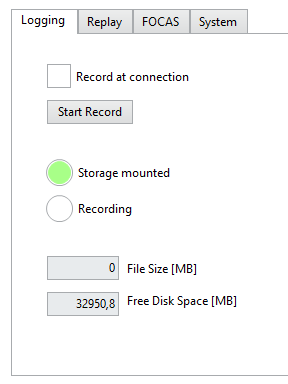
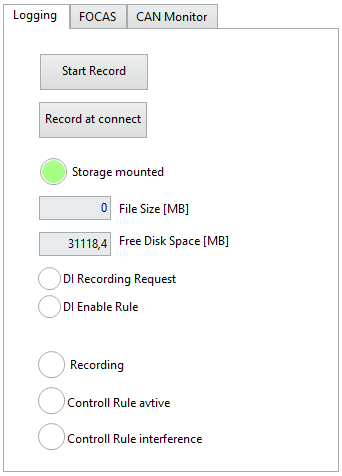
Updated till "connection modes"

diff --git a/C-RIO Dashboard en.md b/C-RIO Dashboard en.md
@@ -2,6 +2,11 @@
 
 User manual for the C-RIO Dashboard
 
+## Version
+This version of the documentation was written for the Dashboard version v4.0.1.4.
+For older documentation look at the following link:
+https://github.com/MyTooliT/Dashboard/blob/older_than_4_0_1_4/C-RIO%20Dashboard%20en.md
+
 ## ICOtronic System components 		  			
 
 The graphic below provides an overview about the ICOtronic system components. It consists of the following main parts:
@@ -21,63 +26,61 @@ http://www.ni.com/download/labview-run-time-engine-2018/7383/en/
 
 CAUTION: it has to be the 2020 SP1 (32-bit) version !!!
 
-Not all browsers can use this plugin, Microsoft Internet Explorer (NOT MICROSOFT EDGE) was tested and worked well.
+Not all browsers can use this plugin. Microsoft Edge works if you run the Dashboard tab in the "Internet Explorer Mode". 
+Alternatively you can also use the ICOtronicRemotePanel. When using the panel you also need to have the "LabView Runtime" installed on your device.
 
-Before connecting the Laptop via the Ethernet Cable to the SPU, the  correct network settings have to be configured. Therefore, set the  network configuration of the interface that is going to be used with the SPU as illustrated below.
+Before connecting the Laptop via the Ethernet Cable to the SPU, the correct network settings have to be configured. Therefore, set the network configuration of the interface that is going to be used with the SPU as illustrated below.
 
 ![ip](assets/ip.png)
  If required, please reboot your Laptop after changing the network settings.
 
 ## Real-Time-Dashboard 			  			
 
-Open your Microsoft Internet explorer and go to:
+If you use Microsoft Edge open the explorer and go to:
+http://192.168.1.115:8000/ICOtronicSPU.html
+If the Dashboard doesn't open check if you are opening the side in the "Internet Explorer Mode".
 
-http://192.168.1.113:8000/ICOtronicSPU.html
+If you use the "ICOtronicRemotePanel" then open the program. Now it will open the following window in which you have to input the IP-Address of the Dashboard. The input should be:
+**192.168.1.115**
+
+![Remote_IP](assets/Remote_IP.png)
 
 This should open the real-time-Dashboard on your PC.
 
-The Dashboard contains at least two tabs: **Stability** and **System**. Newer versions can have additional tabs. The header of the Dashboard, which is active on all the mentioned tabs, has a Connection identifier and the ICOtronic-logo.
+The Dashboard contains four tabs: **Stability**, **Breakout detection**, **Raw data view** and **System**. The header of the Dashboard, which is active on all the mentioned tabs, has a Connection identifier, a field where you can see the name and MAC-Address of the connected holder and the ICOtronic-logo.
 
 If the system is connected to a sensory tool holder, the identifier turns blue. After disconnection, it turns white again.
-
-![connected_w](assets/connected_w.png)   <------->   ![connected_b](assets/connected_b.png)
+![connected_w](assets/disconnected.png)   <------->   ![connected_b](assets/connected.png)
+If no sensory tool holder is connected the fields for name and MAC-Address will be empty. When connected to a sensory tool holder the name and MAC-Address will show until disconnection.
+![connected_w](assets/disconnected-name.png)   <------->   ![connected_b](assets/connected-name.png)
 
 ### System Tab 	
-##### Old Interface
 
 ![system](assets/system_tab.png)
 
-##### New Interface
-
-![system-new](assets/System_Reiter_Update.png)
-
-In the section "Holder connection" of the system tab, all STHs are listed that are found by the system and are ready to connect. You can see the name and the Bluetooth address of the STHs. To establish a connection there are 3 different methods which can be used. The used method can be chosen with the "Connection type" drop-down menu and activated with the "Update" button. On the right side are some system informations. On the bottom left side are a few tabs for specific uses.
+In the section "Holder connection" of the system tab, all STHs are listed that are found by the system and are ready to connect. You can see the name and the Bluetooth address of the STHs. To establish a connection there are 3 different methods which can be used. The used method can be chosen with the "Connection type" drop-down menu and activated with the "->" button. On the right side are some system informations. On the bottom left side are two tabs for using predefined rule and sensor configurations. On the bottom right side are a few tabs with additional functions.
 
 #### Logging
 
 ![logging](assets/logging_tab.png)
 
-This tab is used for recording of a process. If the check-box is clicked the recording will start at connection to a holder. If not it can be started with the "Start Record" button. When the system is recording this button will become a button to stop the recording. The two identifier below are showing if a storage device like a USB is connected and if the system is recording at the moment. The two boxes at the bottom show how big the momentary recorded file is and the bottom most box shows how much space is left on the storage device.
+This tab is used for recording of a process. If the "Record at connect"-button is clicked it will turn green and show that the recording will start at connection to a holder. If not it can be started with the "Start Record" button. When the system is recording this button will become a button to stop the recording. The Identifier below shows green if a USB-device is connected. Below it shows the size of the momentary recording and the free space of the mounted USB. 
+**Attention: the system only works with USB-devices formatted to FAT32-format!!!**
+The two identifier below show if the digital inputs for recording and enabling of the rule are set by the hardware. (The digital input for recording can be used to start and stop recordings outside of the dashboard). The 3 status identifier at the bottom show if the system is recording at the moment, if the rule is allowed to change parameters and the last one shows if the system is momentary changing the overrides because of the defined rules.
 
-#### Replay
-
-![replay2](assets/Replay Modus.PNG)
-This tab is used to replay a recorded process. If a storage device is mounted on the system the recoding files are shown here in form of a list. Then the file can be chosen and loaded with a press of the "Load File" button. To switch the system between the "Live mode" and a recording you just have to press the button on the left side.
-The whole recording will be shown on the top above the tabs when the recording is loaded. The playback of the recording can be started by pressing the "Run" button.
-![replay-run](assets/Replay_Run.png)
 #### FOCAS
 
 ![focas](assets/focas_tab.png)
 
 **Attention: This connection is only possible on specific machines!**
 
-This tab is used if you want to control the system with the FOCAS connection. For this control you have to give the system the NC line number of the start and the end of the process which should be controlled. And then start the connection with the "FOCAS Start" button. If you want to stop the control via FOCAS you have to press the "FOCAS Stop" button which is there instead of the "FOCAS Start" if the connection is active.
+This tab is used if you want to control the system with the FOCAS connection. For this control you have to give the system the NC line number of the start and the end of the process which should be controlled. Additionally you can define the used IP-Address of the FOCAS connection. Then start the connection with the "FOCAS Start" button. If you want to stop the control via FOCAS you have to press the "FOCAS Stop" button which is there instead of the "FOCAS Start" if the connection is active. Note that if you are connected to a holder und you press "FOCAS Start" the system will disconnect the holder and you have to connect again to the holder.
 
-#### System
+#### CAN Monitor
 
 ![can_monitor](assets/can_monitor.png)
 
-This tab shows information about the CAN messages send between the system and the dashboard.
+This tab shows information about the CAN messages send between the system and the dashboard. The "Reboot System" button below can be used to trigger a software side reboot of the SPU.
 
 #### Connection types
 
